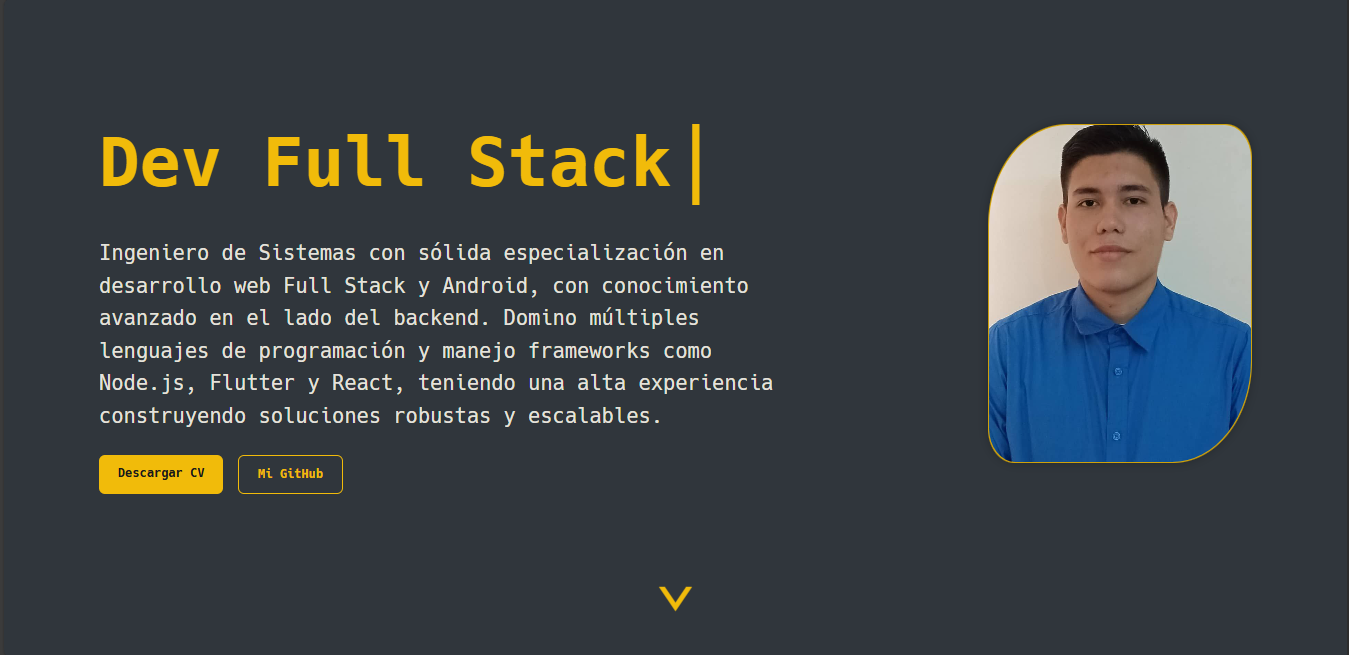
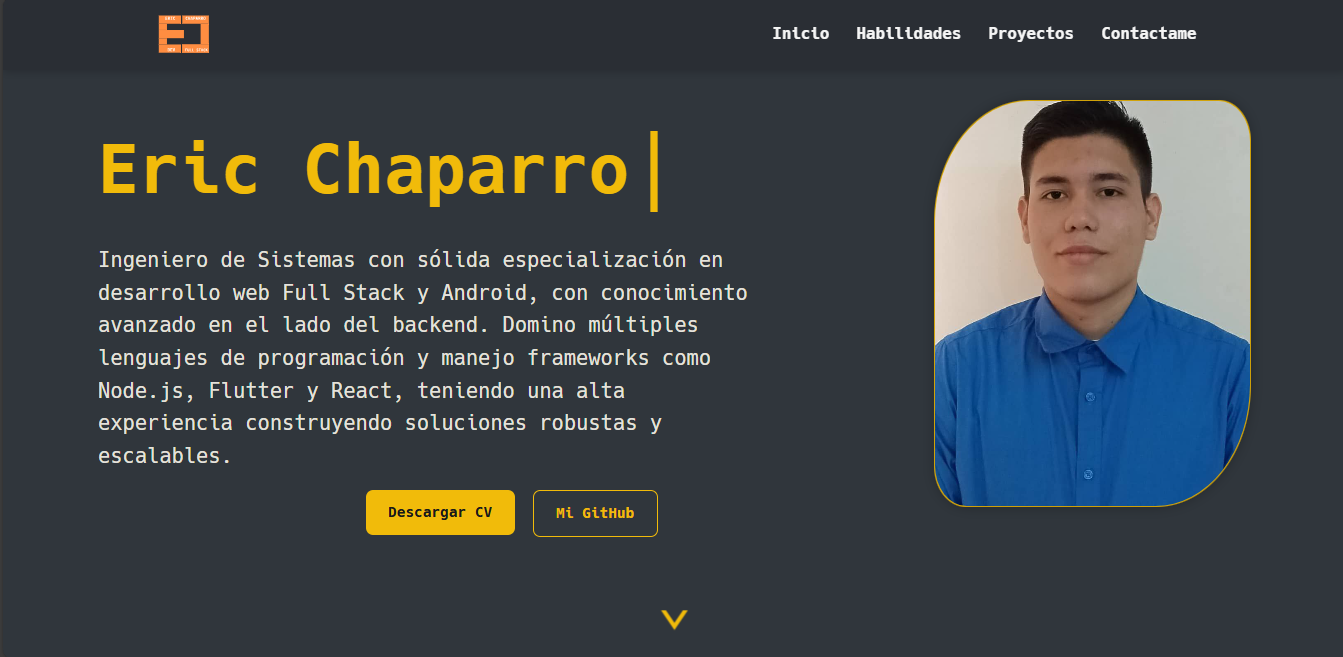
README.md actualizado

diff --git a/src/sections/HomeSection.jsx b/src/sections/HomeSection.jsx
@@ -57,11 +57,7 @@ export const HomeSection = () => {
           <TypingAnimation />
         </h1>
         <p className="description-text">
-          Ingeniero de Sistemas con sólida especialización en desarrollo web
-          Full Stack y Android, con conocimiento avanzado en el lado del
-          backend. Domino múltiples lenguajes de programación y manejo
-          frameworks como Node.js, Flutter y React, teniendo una alta
-          experiencia construyendo soluciones robustas y escalables.
+          Ingeniero de Sistemas especializado en desarrollo web Full Stack y aplicaciones Android, con experiencia avanzada en backend. Domino múltiples lenguajes de programación y frameworks como Node.js, Flutter y React, lo que me permite construir soluciones robustas, escalables y adaptadas a las necesidades de cada proyecto.
         </p>
         <div className="cta-buttons">
           <a

diff --git a/README.md b/README.md
@@ -1,59 +1,65 @@
 # Eric Chaparro - Portafolio Profesional
 
-Este proyecto es un portafolio profesional desarrollado con **React** y **Vite**. Incluye secciones de presentación, habilidades, proyectos y más, con un diseño moderno y responsivo.
+<div align="center">
+  <h1>👨💻 Eric Chaparro | Portafolio Profesional</h1>
+  <p>Bienvenido a mi portafolio. Aquí muestro mis habilidades, experiencia y proyectos destacados como desarrollador.</p>
+</div>
 
-## Estructura del Proyecto
+---
+
+## 🛠 Tecnologías principales
+
+- <strong>React</strong> + <strong>Vite</strong> (SPA moderna y rápida)
+- <strong>CSS Modules</strong> (estilos organizados por sección)
+- <strong>Hack Nerd Font</strong> (branding personalizado)
+- <strong>SVG Icons</strong> (tecnologías y herramientas)
+- <strong>Responsive Design</strong> (adaptable a cualquier dispositivo)
+
+## 📂 Estructura del proyecto
 
 ```
 Eric_Portafolios/
-│
-├── index.html                # Archivo principal HTML, punto de entrada de la app
-├── package.json              # Configuración de dependencias y scripts del proyecto
-├── vite.config.js            # Configuración de Vite para desarrollo y build
-├── README.md                 # Documentación y guía del proyecto
-├── eslint.config.js          # Configuración de reglas de linting
-│
-├── src/                      # Carpeta principal de código fuente
-│   ├── App.jsx               # Componente raíz de la aplicación React
-│   ├── main.jsx              # Punto de entrada de React, renderiza App
-│   ├── index.css             # Estilos globales y fuentes
-│   ├── assets/               # Recursos estáticos (imágenes, íconos, fuentes, PDF)
-│   │   ├── fonts/            # Fuentes personalizadas usadas en el proyecto
-│   │   ├── icons/            # Íconos SVG para tecnologías y branding
-│   │   ├── images/           # Imágenes de proyectos y perfil
-│   │   └── pdf/              # Archivos PDF (ejemplo: CV)
-│   ├── components/           # Componentes reutilizables y específicos por sección
-│   │   ├── about/            # Componentes para la sección 'Sobre mí'
-│   │   ├── footer/           # Componentes para el pie de página
-│   │   ├── home/             # Componentes para la sección principal
-│   │   ├── navbar/           # Componentes para la barra de navegación
-│   │   ├── projects/         # Componentes para mostrar proyectos
-│   │   └── ScrollDownArrow.jsx # Componente reutilizable de flecha para scroll
-│   ├── sections/             # Secciones principales del portafolio (Home, About, Projects, Footer)
-│   ├── styles/               # Archivos CSS organizados por sección y componente
-│   │   ├── about/            # Estilos para la sección 'Sobre mí'
-│   │   ├── footer/           # Estilos para el pie de página
-│   │   ├── home/             # Estilos para la sección principal
-│   │   ├── navbar/           # Estilos para la barra de navegación
-│   │   ├── projects/         # Estilos para la sección de proyectos
-│   └── utils/                # Utilidades y funciones auxiliares (actualmente vacío)
+├── src/
+│   ├── assets/         # Imágenes, íconos, fuentes, PDF
+│   ├── components/     # Componentes reutilizables
+│   ├── sections/       # Secciones principales (Home, About, Projects, Footer)
+│   ├── styles/         # CSS por sección y componente
+│   └── utils/          # Utilidades
+├── index.html
+├── package.json
+├── vite.config.js
+├── README.md
+└── eslint.config.js
 ```
 
-## Scripts principales
+## 🖼 Vista previa
 
-- `npm run dev` - Inicia el servidor de desarrollo con recarga en caliente.
-- `npm run build` - Genera la versión de producción.
-- `npm run preview` - Previsualiza la build de producción localmente.
+<img src="src/assets/images/portfolio_screenshot.png" alt="Portfolio Screenshot" width="600" />
 
-## Tecnologías principales
+## 📌 Funcionalidades
 
-- **React** (Vite)
-- **CSS Modules** (organización por secciones)
-- **Hack Nerd Font** (fuente personalizada)
-- **SVG Icons** para tecnologías
+- Presentación personal y profesional
+- Sección de habilidades y tecnologías
+- Proyectos destacados con detalles y enlaces
+- Animaciones y componentes interactivos
+- Diseño moderno y adaptable
 
-## Autor
+## 📄 CV
 
-Eric Chaparro
+Descarga mi CV en PDF desde la sección principal del portafolio o directamente aquí:
+[Descargar CV](src/assets/pdf/ERIC_CHAPARRO_CV.pdf)
+
+## 🌐 Demo
+
+Prueba el portafolio en vivo:
+[Ver Demo](https://portafolios-ericchaparro.vercel.app/) 
+
+## 📫 Contacto
+
+¿Te gustaría trabajar conmigo o tienes alguna consulta?
+Puedes contactarme a través del portafolio o por correo:
+**ericchaparro1409@gmail.com** 
 
 ---
+
+> Este portafolio está construido con pasión y dedicación. ¡Gracias por visitar mi perfil!
